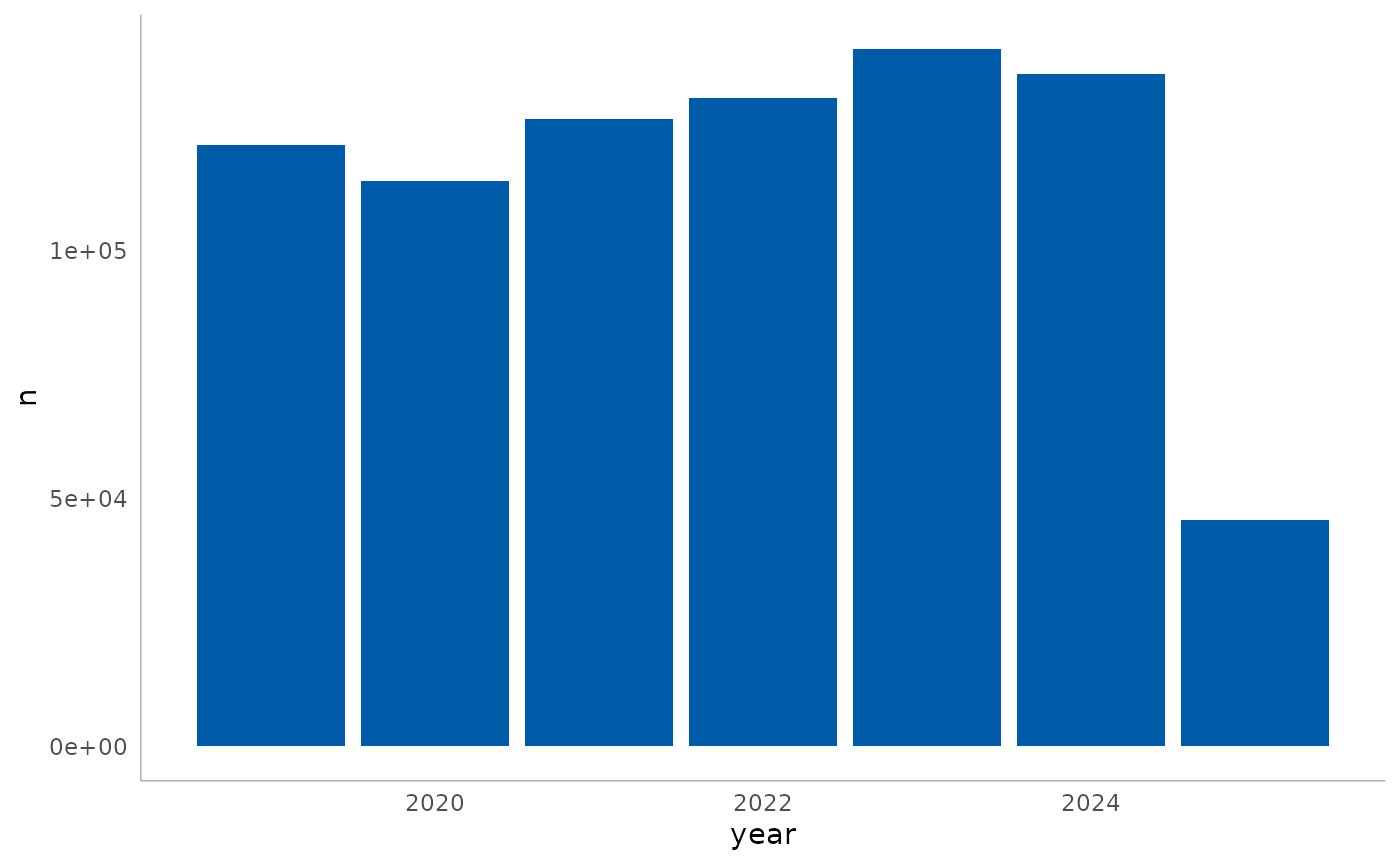
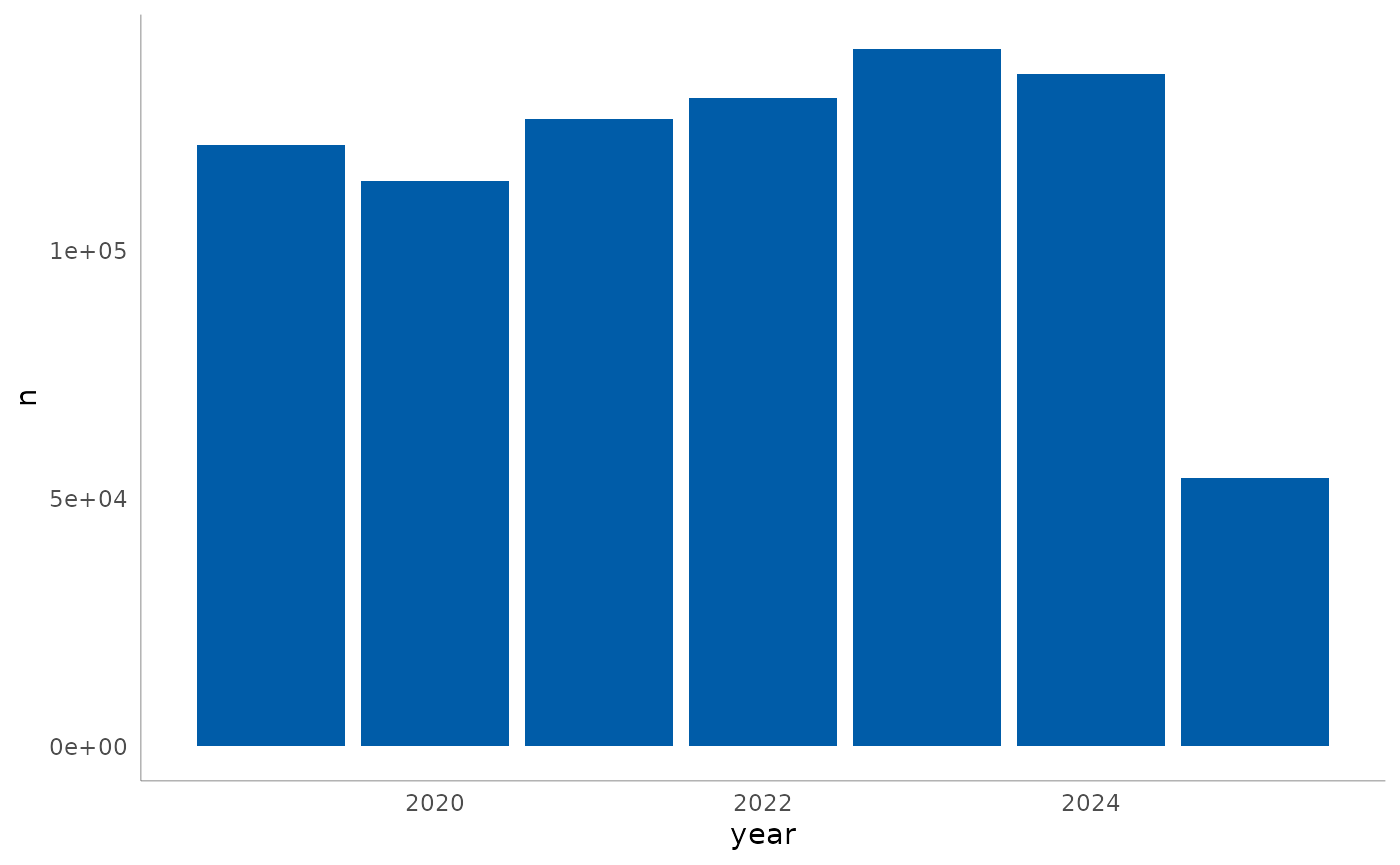
Deploying to gh-pages from @ pedrobsantos21/ost.utils@5a747f73d366679d2c6e568a79afe3f7af3ad31a 🚀

Changed region(s): [[0.8293, 0.5306, 0.9521, 0.6243]]

diff --git a/articles/ostutils.html b/articles/ostutils.html
@@ -20,7 +20,7 @@
 
     <a class="navbar-brand me-2" href="../index.html">ost.utils</a>
 
-    <small class="nav-text text-muted me-auto" data-bs-toggle="tooltip" data-bs-placement="bottom" title="">0.1.2</small>
+    <small class="nav-text text-muted me-auto" data-bs-toggle="tooltip" data-bs-placement="bottom" title="">0.1.3</small>
 
 
     <button class="navbar-toggler" type="button" data-bs-toggle="collapse" data-bs-target="#navbar" aria-controls="navbar" aria-expanded="false" aria-label="Toggle navigation">
@@ -59,7 +59,7 @@
       <h1>Getting Started</h1>
             
       
-      <small class="dont-index">Source: <a href="https://github.com/pedrobsantos21/ost.utils/blob/v0.1.2/vignettes/ostutils.Rmd" class="external-link"><code>vignettes/ostutils.Rmd</code></a></small>
+      <small class="dont-index">Source: <a href="https://github.com/pedrobsantos21/ost.utils/blob/main/vignettes/ostutils.Rmd" class="external-link"><code>vignettes/ostutils.Rmd</code></a></small>
       <div class="d-none name"><code>ostutils.Rmd</code></div>
     </div>
 
@@ -137,16 +137,16 @@ the data to a dedicated <code>data/</code> folder.</p>
 <span><span class="co">#&gt; <span style="color: #00BBBB;">ℹ</span> Starting download...</span></span>
 <span><span class="co">#&gt; <span style="color: #00BB00;">✔</span> Download completed.</span></span>
 <span><span class="co">#&gt; <span style="color: #00BBBB;">ℹ</span> Extrating zip...</span></span>
-<span><span class="co">#&gt; <span style="color: #00BB00;">✔</span> Data extracted successfully at '/tmp/RtmpUhJglf'</span></span>
+<span><span class="co">#&gt; <span style="color: #00BB00;">✔</span> Data extracted successfully at '/tmp/Rtmpuc1eul'</span></span>
 <span></span>
 <span><span class="va">df</span> <span class="op">&lt;-</span> <span class="fu"><a href="../reference/load_infosiga.html">load_infosiga</a></span><span class="op">(</span>file_type <span class="op">=</span> <span class="st">"sinistros"</span>, path <span class="op">=</span> <span class="va">temp</span><span class="op">)</span></span>
 <span><span class="co">#&gt; <span style="color: #00BBBB;">ℹ</span> Using <span style="color: #0000BB;">"','"</span> as decimal and <span style="color: #0000BB;">"'.'"</span> as grouping mark. Use `read_delim()` for more control.</span></span>
-<span><span class="co">#&gt; <span style="font-weight: bold;">Rows: </span><span style="color: #0000BB;">1208097</span> <span style="font-weight: bold;">Columns: </span><span style="color: #0000BB;">43</span></span></span>
+<span><span class="co">#&gt; <span style="font-weight: bold;">Rows: </span><span style="color: #0000BB;">1224197</span> <span style="font-weight: bold;">Columns: </span><span style="color: #0000BB;">43</span></span></span>
 <span><span class="co">#&gt; <span style="color: #00BBBB;">──</span> <span style="font-weight: bold;">Column specification</span> <span style="color: #00BBBB;">────────────────────────────────────────────────────────</span></span></span>
 <span><span class="co">#&gt; <span style="font-weight: bold;">Delimiter:</span> ";"</span></span>
-<span><span class="co">#&gt; <span style="color: #BB0000;">chr</span>  (26): tipo_registro, data_sinistro, mes_sinistro, dia_sinistro, ano_mes...</span></span>
+<span><span class="co">#&gt; <span style="color: #BB0000;">chr</span>  (25): tipo_registro, data_sinistro, mes_sinistro, dia_sinistro, ano_mes...</span></span>
 <span><span class="co">#&gt; <span style="color: #00BB00;">dbl</span>  (15): id_sinistro, ano_sinistro, latitude, longitude, tp_veiculo_bicicl...</span></span>
-<span><span class="co">#&gt; <span style="color: #BBBB00;">lgl</span>   (1): gravidade_ileso</span></span>
+<span><span class="co">#&gt; <span style="color: #BBBB00;">lgl</span>   (2): gravidade_ileso, tp_sinistro_colisao_traseira</span></span>
 <span><span class="co">#&gt; <span style="color: #0000BB;">time</span>  (1): hora_sinistro</span></span>
 <span><span class="co">#&gt; </span></span>
 <span><span class="co">#&gt; <span style="color: #00BBBB;">ℹ</span> Use `spec()` to retrieve the full column specification for this data.</span></span>

diff --git a/authors.html b/authors.html
@@ -7,7 +7,7 @@
 
     <a class="navbar-brand me-2" href="index.html">ost.utils</a>
 
-    <small class="nav-text text-muted me-auto" data-bs-toggle="tooltip" data-bs-placement="bottom" title="">0.1.2</small>
+    <small class="nav-text text-muted me-auto" data-bs-toggle="tooltip" data-bs-placement="bottom" title="">0.1.3</small>
 
 
     <button class="navbar-toggler" type="button" data-bs-toggle="collapse" data-bs-target="#navbar" aria-controls="navbar" aria-expanded="false" aria-label="Toggle navigation">
@@ -46,17 +46,17 @@
 
     <div class="section level2">
       <h2 id="citation">Citation</h2>
-      <p><small class="dont-index">Source: <a href="https://github.com/pedrobsantos21/ost.utils/blob/v0.1.2/DESCRIPTION" class="external-link"><code>DESCRIPTION</code></a></small></p>
+      <p><small class="dont-index">Source: <a href="https://github.com/pedrobsantos21/ost.utils/blob/main/DESCRIPTION" class="external-link"><code>DESCRIPTION</code></a></small></p>
 
       <p>Santos PAB (2025).
 <em>ost.utils: Provides Utility Methods and Tools for COST</em>.
-R package version 0.1.2, <a href="https://github.com/pedrobsantos21/ost.utils" class="external-link">https://github.com/pedrobsantos21/ost.utils</a>.
+R package version 0.1.3, <a href="https://github.com/pedrobsantos21/ost.utils" class="external-link">https://github.com/pedrobsantos21/ost.utils</a>.
 </p>
       <pre>@Manual{,
   title = {ost.utils: Provides Utility Methods and Tools for COST},
   author = {Pedro Augusto Borges Santos},
   year = {2025},
-  note = {R package version 0.1.2},
+  note = {R package version 0.1.3},
   url = {https://github.com/pedrobsantos21/ost.utils},
 }</pre>
     </div>

diff --git a/news/index.html b/news/index.html
@@ -7,7 +7,7 @@
 
     <a class="navbar-brand me-2" href="../index.html">ost.utils</a>
 
-    <small class="nav-text text-muted me-auto" data-bs-toggle="tooltip" data-bs-placement="bottom" title="">0.1.2</small>
+    <small class="nav-text text-muted me-auto" data-bs-toggle="tooltip" data-bs-placement="bottom" title="">0.1.3</small>
 
 
     <button class="navbar-toggler" type="button" data-bs-toggle="collapse" data-bs-target="#navbar" aria-controls="navbar" aria-expanded="false" aria-label="Toggle navigation">
@@ -33,9 +33,13 @@
   <main id="main" class="col-md-9"><div class="page-header">
 
       <h1>Changelog</h1>
-      <small>Source: <a href="https://github.com/pedrobsantos21/ost.utils/blob/v0.1.2/NEWS.md" class="external-link"><code>NEWS.md</code></a></small>
+      <small>Source: <a href="https://github.com/pedrobsantos21/ost.utils/blob/main/NEWS.md" class="external-link"><code>NEWS.md</code></a></small>
     </div>
 
+    <div class="section level2">
+<h2 class="pkg-version" data-toc-text="0.1.3" id="ostutils-013">ost.utils 0.1.3<a class="anchor" aria-label="anchor" href="#ostutils-013"></a></h2>
+<ul><li>Fix <code><a href="../reference/load_infosiga.html">load_infosiga()</a></code> loading empty data frames (<a href="https://github.com/pedrobsantos21/ost.utils/issues/3" class="external-link">#3</a>).</li>
+</ul></div>
     <div class="section level2">
 <h2 class="pkg-version" data-toc-text="0.1.2" id="ostutils-012">ost.utils 0.1.2<a class="anchor" aria-label="anchor" href="#ostutils-012"></a></h2>
 <ul><li>Update <code><a href="../reference/theme_detran.html">theme_detran()</a></code> with new style configuration.</li>

diff --git a/reference/download_infosiga.html b/reference/download_infosiga.html
@@ -11,7 +11,7 @@ of the resulting ZIP file to a specified directory."></head><body>
 
     <a class="navbar-brand me-2" href="../index.html">ost.utils</a>
 
-    <small class="nav-text text-muted me-auto" data-bs-toggle="tooltip" data-bs-placement="bottom" title="">0.1.2</small>
+    <small class="nav-text text-muted me-auto" data-bs-toggle="tooltip" data-bs-placement="bottom" title="">0.1.3</small>
 
 
     <button class="navbar-toggler" type="button" data-bs-toggle="collapse" data-bs-target="#navbar" aria-controls="navbar" aria-expanded="false" aria-label="Toggle navigation">
@@ -37,7 +37,7 @@ of the resulting ZIP file to a specified directory."></head><body>
   <main id="main" class="col-md-9"><div class="page-header">
 
       <h1>Download and Extract Infosiga data</h1>
-      <small class="dont-index">Source: <a href="https://github.com/pedrobsantos21/ost.utils/blob/v0.1.2/R/infosiga.R" class="external-link"><code>R/infosiga.R</code></a></small>
+      <small class="dont-index">Source: <a href="https://github.com/pedrobsantos21/ost.utils/blob/main/R/infosiga.R" class="external-link"><code>R/infosiga.R</code></a></small>
       <div class="d-none name"><code>download_infosiga.Rd</code></div>
     </div>
 

diff --git a/reference/load_infosiga.html b/reference/load_infosiga.html
@@ -9,7 +9,7 @@ type from a given directory into a single data frame."></head><body>
 
     <a class="navbar-brand me-2" href="../index.html">ost.utils</a>
 
-    <small class="nav-text text-muted me-auto" data-bs-toggle="tooltip" data-bs-placement="bottom" title="">0.1.2</small>
+    <small class="nav-text text-muted me-auto" data-bs-toggle="tooltip" data-bs-placement="bottom" title="">0.1.3</small>
 
 
     <button class="navbar-toggler" type="button" data-bs-toggle="collapse" data-bs-target="#navbar" aria-controls="navbar" aria-expanded="false" aria-label="Toggle navigation">
@@ -35,7 +35,7 @@ type from a given directory into a single data frame."></head><body>
   <main id="main" class="col-md-9"><div class="page-header">
 
       <h1>Load Infosiga Data from Local Files</h1>
-      <small class="dont-index">Source: <a href="https://github.com/pedrobsantos21/ost.utils/blob/v0.1.2/R/infosiga.R" class="external-link"><code>R/infosiga.R</code></a></small>
+      <small class="dont-index">Source: <a href="https://github.com/pedrobsantos21/ost.utils/blob/main/R/infosiga.R" class="external-link"><code>R/infosiga.R</code></a></small>
       <div class="d-none name"><code>load_infosiga.Rd</code></div>
     </div>
 

diff --git a/reference/clean_infosiga.html b/reference/clean_infosiga.html
@@ -11,7 +11,7 @@ pessoas, or veiculos)."></head><body>
 
     <a class="navbar-brand me-2" href="../index.html">ost.utils</a>
 
-    <small class="nav-text text-muted me-auto" data-bs-toggle="tooltip" data-bs-placement="bottom" title="">0.1.2</small>
+    <small class="nav-text text-muted me-auto" data-bs-toggle="tooltip" data-bs-placement="bottom" title="">0.1.3</small>
 
 
     <button class="navbar-toggler" type="button" data-bs-toggle="collapse" data-bs-target="#navbar" aria-controls="navbar" aria-expanded="false" aria-label="Toggle navigation">
@@ -37,7 +37,7 @@ pessoas, or veiculos)."></head><body>
   <main id="main" class="col-md-9"><div class="page-header">
 
       <h1>Clean and Standardize Raw Infosiga Data</h1>
-      <small class="dont-index">Source: <a href="https://github.com/pedrobsantos21/ost.utils/blob/v0.1.2/R/infosiga.R" class="external-link"><code>R/infosiga.R</code></a></small>
+      <small class="dont-index">Source: <a href="https://github.com/pedrobsantos21/ost.utils/blob/main/R/infosiga.R" class="external-link"><code>R/infosiga.R</code></a></small>
       <div class="d-none name"><code>clean_infosiga.Rd</code></div>
     </div>
 

diff --git a/reference/theme_detran.html b/reference/theme_detran.html
@@ -11,7 +11,7 @@ data visualizations."></head><body>
 
     <a class="navbar-brand me-2" href="../index.html">ost.utils</a>
 
-    <small class="nav-text text-muted me-auto" data-bs-toggle="tooltip" data-bs-placement="bottom" title="">0.1.2</small>
+    <small class="nav-text text-muted me-auto" data-bs-toggle="tooltip" data-bs-placement="bottom" title="">0.1.3</small>
 
 
     <button class="navbar-toggler" type="button" data-bs-toggle="collapse" data-bs-target="#navbar" aria-controls="navbar" aria-expanded="false" aria-label="Toggle navigation">
@@ -37,7 +37,7 @@ data visualizations."></head><body>
   <main id="main" class="col-md-9"><div class="page-header">
 
       <h1>Custom ggplot2 Theme for Detran Visualizations</h1>
-      <small class="dont-index">Source: <a href="https://github.com/pedrobsantos21/ost.utils/blob/v0.1.2/R/plot.R" class="external-link"><code>R/plot.R</code></a></small>
+      <small class="dont-index">Source: <a href="https://github.com/pedrobsantos21/ost.utils/blob/main/R/plot.R" class="external-link"><code>R/plot.R</code></a></small>
       <div class="d-none name"><code>theme_detran.Rd</code></div>
     </div>
 

diff --git a/LICENSE.html b/LICENSE.html
@@ -7,7 +7,7 @@
 
     <a class="navbar-brand me-2" href="index.html">ost.utils</a>
 
-    <small class="nav-text text-muted me-auto" data-bs-toggle="tooltip" data-bs-placement="bottom" title="">0.1.2</small>
+    <small class="nav-text text-muted me-auto" data-bs-toggle="tooltip" data-bs-placement="bottom" title="">0.1.3</small>
 
 
     <button class="navbar-toggler" type="button" data-bs-toggle="collapse" data-bs-target="#navbar" aria-controls="navbar" aria-expanded="false" aria-label="Toggle navigation">
@@ -33,7 +33,7 @@
   <main id="main" class="col-md-9"><div class="page-header">
 
       <h1>GNU General Public License</h1>
-      <small class="dont-index">Source: <a href="https://github.com/pedrobsantos21/ost.utils/blob/v0.1.2/LICENSE.md" class="external-link"><code>LICENSE.md</code></a></small>
+      <small class="dont-index">Source: <a href="https://github.com/pedrobsantos21/ost.utils/blob/main/LICENSE.md" class="external-link"><code>LICENSE.md</code></a></small>
     </div>
 
 <div id="gnu-general-public-license" class="section level1">

diff --git a/reference/palette_detran.html b/reference/palette_detran.html
@@ -7,7 +7,7 @@
 
     <a class="navbar-brand me-2" href="../index.html">ost.utils</a>
 
-    <small class="nav-text text-muted me-auto" data-bs-toggle="tooltip" data-bs-placement="bottom" title="">0.1.2</small>
+    <small class="nav-text text-muted me-auto" data-bs-toggle="tooltip" data-bs-placement="bottom" title="">0.1.3</small>
 
 
     <button class="navbar-toggler" type="button" data-bs-toggle="collapse" data-bs-target="#navbar" aria-controls="navbar" aria-expanded="false" aria-label="Toggle navigation">
@@ -33,7 +33,7 @@
   <main id="main" class="col-md-9"><div class="page-header">
 
       <h1>Detran Color Palette</h1>
-      <small class="dont-index">Source: <a href="https://github.com/pedrobsantos21/ost.utils/blob/v0.1.2/R/plot.R" class="external-link"><code>R/plot.R</code></a></small>
+      <small class="dont-index">Source: <a href="https://github.com/pedrobsantos21/ost.utils/blob/main/R/plot.R" class="external-link"><code>R/plot.R</code></a></small>
       <div class="d-none name"><code>palette_detran.Rd</code></div>
     </div>
 

diff --git a/404.html b/404.html
@@ -20,7 +20,7 @@
 
     <a class="navbar-brand me-2" href="https://pedrobsantos21.github.io/ost.utils/index.html">ost.utils</a>
 
-    <small class="nav-text text-muted me-auto" data-bs-toggle="tooltip" data-bs-placement="bottom" title="">0.1.2</small>
+    <small class="nav-text text-muted me-auto" data-bs-toggle="tooltip" data-bs-placement="bottom" title="">0.1.3</small>
 
 
     <button class="navbar-toggler" type="button" data-bs-toggle="collapse" data-bs-target="#navbar" aria-controls="navbar" aria-expanded="false" aria-label="Toggle navigation">

diff --git a/articles/index.html b/articles/index.html
@@ -7,7 +7,7 @@
 
     <a class="navbar-brand me-2" href="../index.html">ost.utils</a>
 
-    <small class="nav-text text-muted me-auto" data-bs-toggle="tooltip" data-bs-placement="bottom" title="">0.1.2</small>
+    <small class="nav-text text-muted me-auto" data-bs-toggle="tooltip" data-bs-placement="bottom" title="">0.1.3</small>
 
 
     <button class="navbar-toggler" type="button" data-bs-toggle="collapse" data-bs-target="#navbar" aria-controls="navbar" aria-expanded="false" aria-label="Toggle navigation">

diff --git a/reference/index.html b/reference/index.html
@@ -7,7 +7,7 @@
 
     <a class="navbar-brand me-2" href="../index.html">ost.utils</a>
 
-    <small class="nav-text text-muted me-auto" data-bs-toggle="tooltip" data-bs-placement="bottom" title="">0.1.2</small>
+    <small class="nav-text text-muted me-auto" data-bs-toggle="tooltip" data-bs-placement="bottom" title="">0.1.3</small>
 
 
     <button class="navbar-toggler" type="button" data-bs-toggle="collapse" data-bs-target="#navbar" aria-controls="navbar" aria-expanded="false" aria-label="Toggle navigation">
